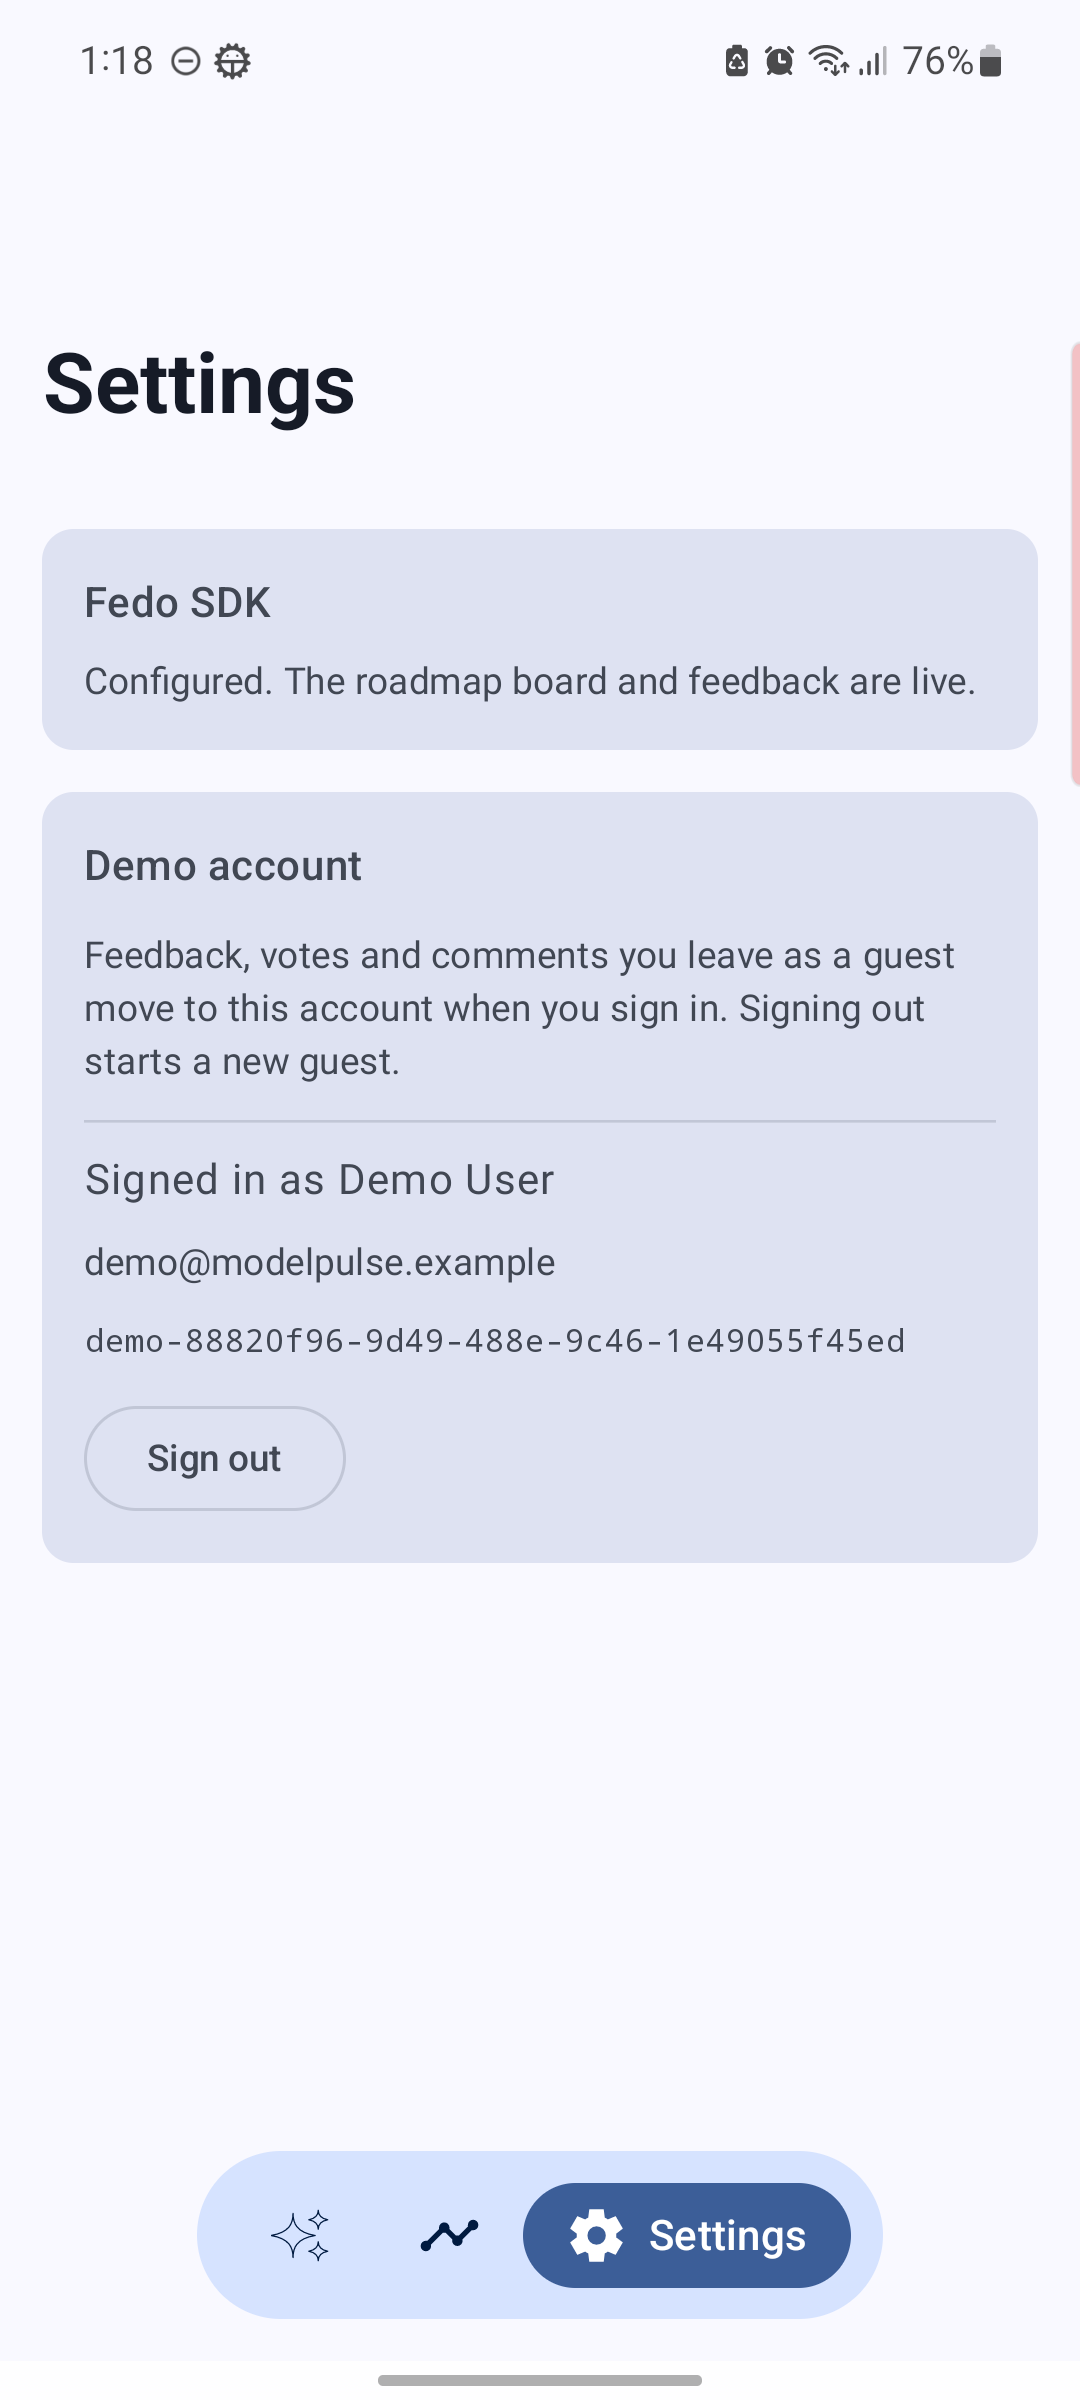
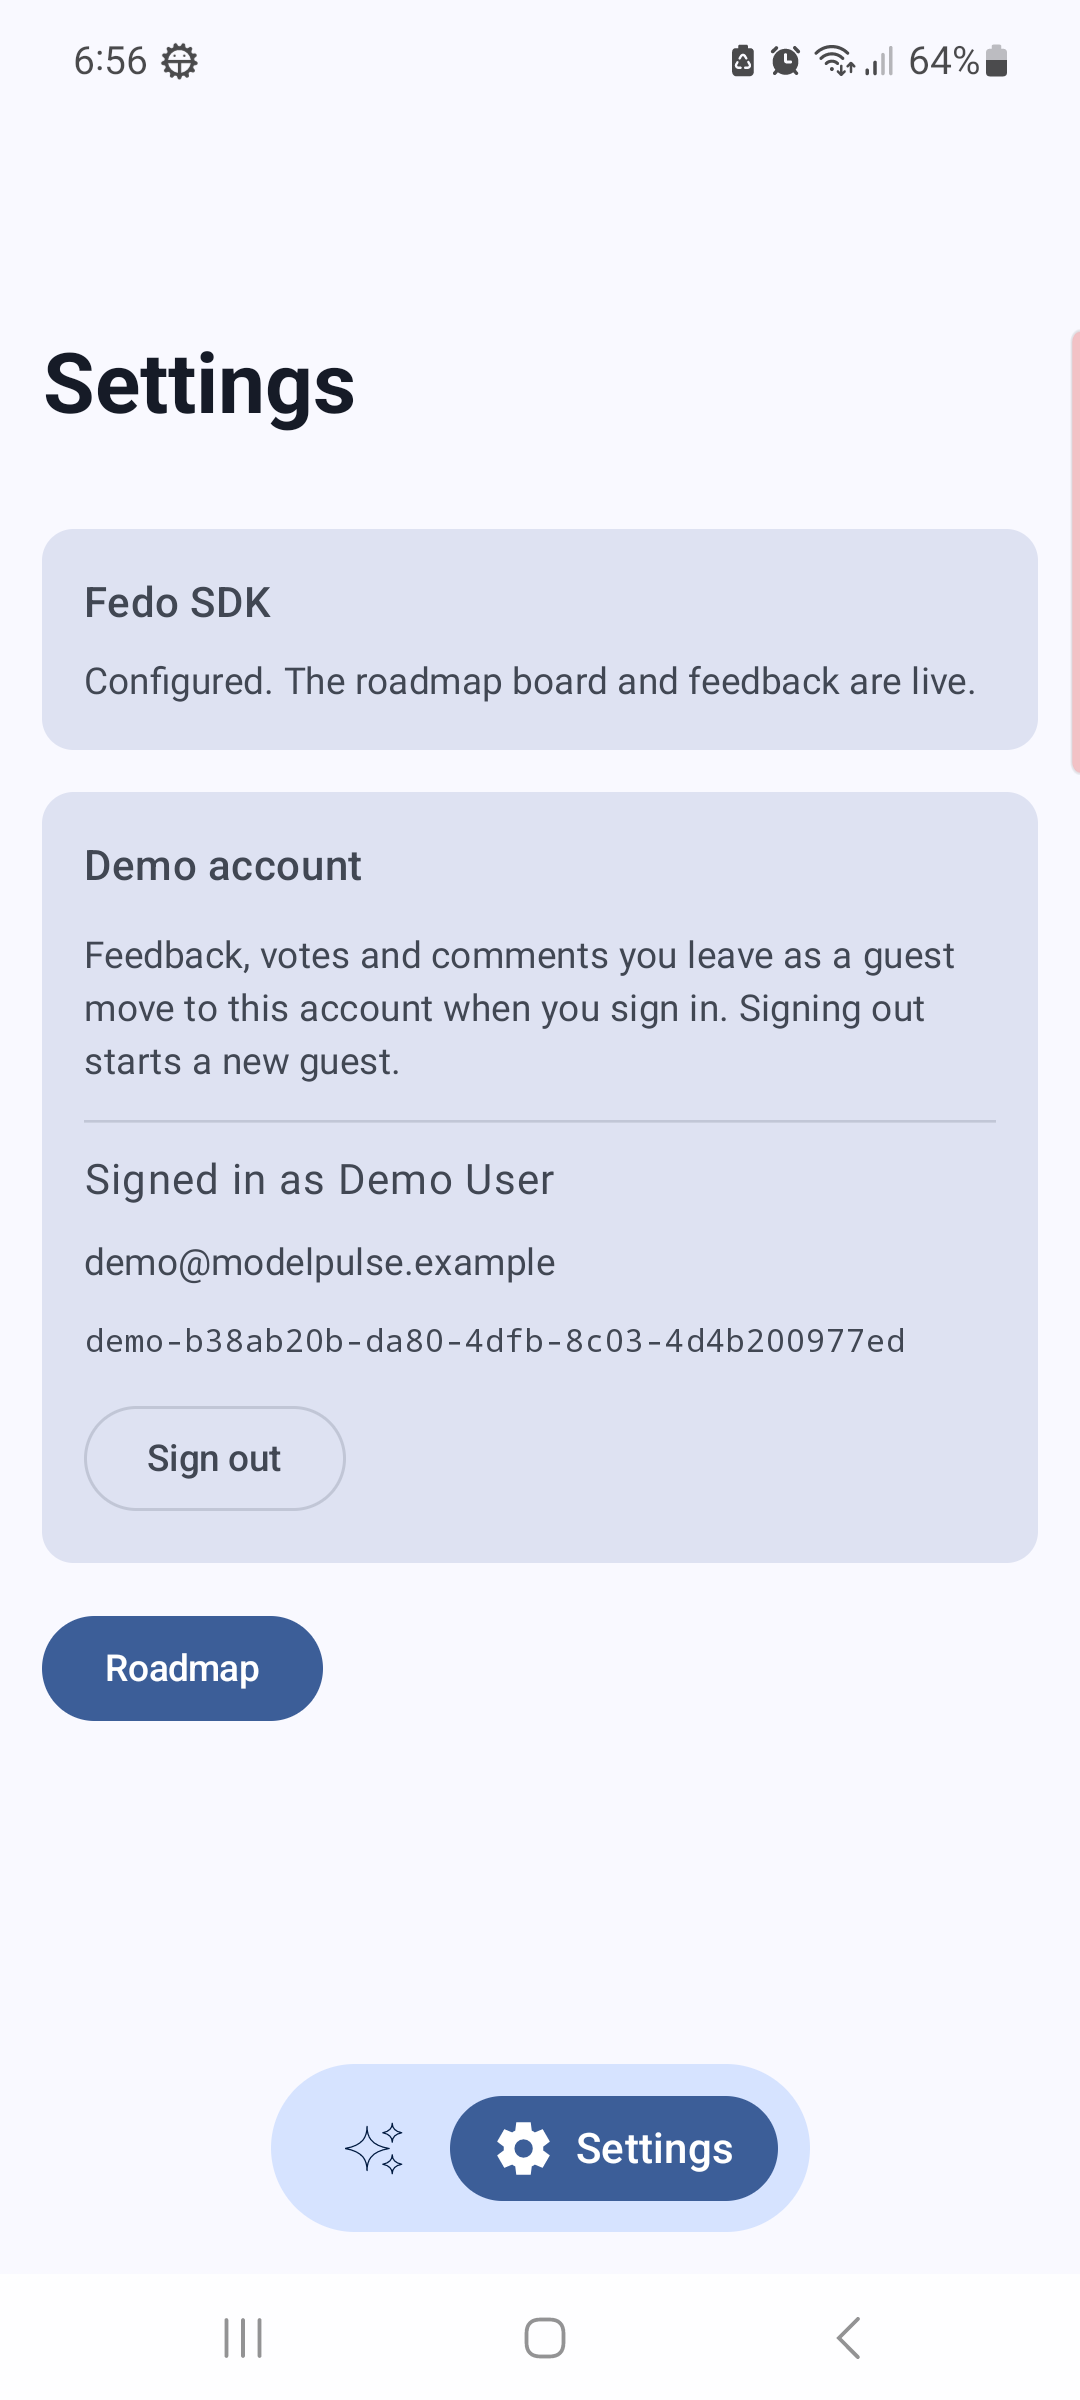
Retake README screenshots; reach Roadmap through Settings
Roadmap left the bottom bar, so the screenshot script now opens it from
the Settings screen.

diff --git a/specs/screenshots.md b/specs/screenshots.md
@@ -35,7 +35,7 @@ is restored when the script exits.
 |--------|-------|------------|------|
 | `models-list` | launch | `Search models` shown | `models-list.png` |
 | `model-detail` | launch, tap the first model card | `Copy` shown | `model-detail.png` |
-| `roadmap` | launch, tap the nav item with desc `Roadmap` | `Feedback` shown, +2 s for the SDK list | `roadmap.png` |
+| `roadmap` | launch, tap the nav item with desc `Settings`, tap `Roadmap` | `Feedback` shown, +2 s for the SDK list | `roadmap.png` |
 | `settings` | launch, tap the nav item with desc `Settings` | `Fedo SDK` shown | `settings.png` |
 
 Nodes are found in `uiautomator dump` by text or content-desc, never by

diff --git a/CHANGELOG.md b/CHANGELOG.md
@@ -139,6 +139,9 @@ contextual feedback sheet on the other.
 
 ### Changed
 
+- README screenshots retaken on the Galaxy A51. `scripts/screenshots.sh`
+  now reaches Roadmap through Settings, since Roadmap left the bottom bar
+  by @mabd-agent
 - `specs/screenshots.md` and `scripts/screenshots.sh`: one command retakes
   every README screenshot, dark and light, per screen by @mabd-agent
 - README screenshots retaken on a phone, dark and light, showing the unified
